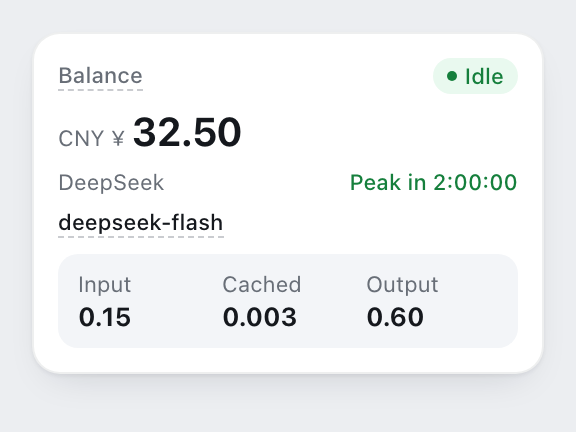
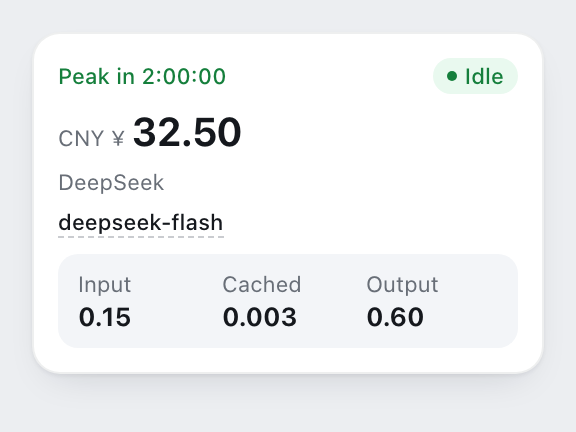
fix: lead with the countdown and hang the balance bubble on the amount
The card printed a 「余额」 label the amount already said, parked the countdown
next to the model where it read as a duration, and answered a hover anywhere on
the amount's row — 100 px right of the number included.

- The label is gone; the word survives as the amount row's `aria-label`, so a
  screen reader still hears what the number is.
- The countdown opens the card, top-left, opposite the chips, in the current
  period's colour: it is the one value that changes every second.
- `.dbc-amount-row` lays out and `.dbc-amount` answers, so the hover target is
  the money's own inline box. Measured on a 232 px card: 64.9 px (`¥32.50`)
  instead of the full 206 px row.
- The model bubble belongs to an official provider only: another provider bills
  its own account, so the card's numbers there are a reference, not its rates.

Screenshots regenerated from the shipped stylesheet.

Changed region(s): [[0.5938, 0.3912, 0.9062, 0.4514], [0.0938, 0.1505, 0.4062, 0.2106]]

diff --git a/client.js b/client.js
@@ -612,23 +612,23 @@ window.__ModuleLoader__.load({
       '.dbc-holiday-text{flex:0 1 auto;min-width:0;white-space:nowrap;overflow:hidden;text-overflow:ellipsis}',
       '.dbc-holiday-meta{flex:0 0 auto;margin-left:auto;font-weight:400;color:var(--dbc-ink-3)}',
       // label line: title on the left, state chips on the right
-      '.dbc-head{display:flex;align-items:center;justify-content:space-between;gap:8px;min-width:0}',
-      '.dbc-title{flex:0 1 auto;min-width:0;overflow:hidden;text-overflow:ellipsis;white-space:nowrap;font:500 11px/14px var(--dbc-font);color:var(--dbc-ink-3)}',
-      '.dbc-chips{display:flex;align-items:center;gap:4px;flex:0 0 auto}',
+      '.dbc-head{display:flex;align-items:center;justify-content:space-between;flex-wrap:wrap;gap:2px 8px;min-width:0}',
+      '.dbc-chips{display:flex;align-items:center;gap:4px;flex:0 0 auto;margin-left:auto}',
       '.dbc-chip{display:inline-flex;flex:0 0 auto;align-items:center;gap:4px;height:18px;padding:0 7px;border-radius:999px;font:500 11px/14px var(--dbc-font);white-space:nowrap;cursor:help}',
       '.dbc-chip-idle{background:var(--dbc-green-bg);color:var(--dbc-green)}',
       '.dbc-chip-peak{background:var(--dbc-amber-bg);color:var(--dbc-amber)}',
       '.dbc-chip-makeup{height:17px;padding:0 6px;border-radius:var(--dbc-r-tag);background:var(--dbc-surface-3);color:var(--dbc-ink-3)}',
       '.dbc-dot{width:5px;height:5px;border-radius:50%;background:currentColor}',
       // the amount owns a full-width line; long values shrink instead of clipping
-      '.dbc-amount{display:flex;align-items:baseline;gap:3px;min-width:0;font-size:20px;line-height:25px;font-weight:660;letter-spacing:-.02em;color:var(--dbc-ink-1);white-space:nowrap}',
+      '.dbc-amount-row{display:flex;align-items:baseline;gap:3px;min-width:0}',
+      '.dbc-amount{display:inline-flex;align-items:baseline;gap:3px;min-width:0;max-width:100%;font-size:20px;line-height:25px;font-weight:660;letter-spacing:-.02em;color:var(--dbc-ink-1);white-space:nowrap}',
       '.dbc-amount-small{font-size:17px;line-height:22px;letter-spacing:-.01em}',
       '.dbc-code{flex:0 0 auto;font:400 11px/14px var(--dbc-font);letter-spacing:0;color:var(--dbc-ink-3)}',
       '.dbc-note{font:400 13px/18px var(--dbc-font);letter-spacing:0;color:var(--dbc-ink-3)}',
       // provider line: provider on the left, countdown on the right, both on one line
       '.dbc-mrow{display:flex;align-items:baseline;flex-wrap:wrap;gap:0 6px;min-width:0}',
       '.dbc-provider{flex:0 0 auto;max-width:100%;overflow:hidden;text-overflow:ellipsis;white-space:nowrap;font:400 11px/14px var(--dbc-font);color:var(--dbc-ink-3)}',
-      '.dbc-clock{flex:0 0 auto;margin-left:auto;font:500 11px/14px var(--dbc-font);white-space:nowrap}',
+      '.dbc-clock{flex:0 0 auto;font:500 11px/14px var(--dbc-font);white-space:nowrap}',
       '.dbc-clock-idle{color:var(--dbc-green)}',
       '.dbc-clock-peak{color:var(--dbc-amber)}',
       '.dbc-model{align-self:flex-start;max-width:100%;min-width:0;overflow:hidden;text-overflow:ellipsis;white-space:nowrap;font:500 11px/14px var(--dbc-font);color:var(--dbc-ink-1)}',
@@ -638,7 +638,8 @@ window.__ModuleLoader__.load({
       '.dbc-price-value{white-space:nowrap;font:650 13px/16px var(--dbc-font);color:var(--dbc-ink-1)}',
       '.dbc-price-empty{grid-column:1 / -1;font:400 11px/14px var(--dbc-font);color:var(--dbc-ink-3)}',
       '.dbc-tip-trigger{cursor:help;border-bottom:1px dashed color-mix(in srgb,var(--dbc-ink-3) 35%,transparent)}',
-      '.dbc-tip-trigger:focus-visible{outline:2px solid color-mix(in srgb,var(--dbc-blue) 55%,transparent);outline-offset:2px}',
+      '.dbc-tip-plain{cursor:help}',
+      '.dbc-tip-plain:focus-visible,.dbc-tip-trigger:focus-visible{outline:2px solid color-mix(in srgb,var(--dbc-blue) 55%,transparent);outline-offset:2px}',
       // The bubble is a fixed dark surface in both themes, so its accents are fixed
       // too: the theme-aware --dbc-* colours would land dark-on-dark in light mode.
       '.dbc-tip{position:fixed;z-index:2147483000;display:flex;flex-direction:column;max-width:248px;box-sizing:border-box;padding:8px 10px;border:1px solid var(--dbc-line);border-radius:10px;background:var(--dbc-surface);color:var(--dbc-ink-1);box-shadow:0 6px 24px -8px rgba(15,17,21,.28),0 1px 3px rgba(15,17,21,.08);font:400 11px/14px var(--dbc-font);font-variant-numeric:tabular-nums;text-align:left;white-space:normal;pointer-events:none}',
@@ -999,6 +1000,8 @@ window.__ModuleLoader__.load({
       let balanceMain = null;
       let balanceNote = null;
       let balanceHint = null;
+      // The card no longer prints a balance label, but the number still needs a name
+      // for screen readers, so the same word rides on the amount row as its aria-label.
       let titleKey = 'card.title';
 
       const apiBalance = remote.deepseek;
@@ -1371,19 +1374,46 @@ window.__ModuleLoader__.load({
               ),
             );
 
-      // One visual row per fact: label line, amount line, provider line, model
-      // line, price block. The amount never shares a line with the countdown, so
-      // a six-digit balance and a two-week countdown can both be complete.
+      // One visual row per fact: countdown + chips, amount, provider, model, price
+      // block. The amount never shares a line with the countdown, so a six-digit
+      // balance and a two-week countdown can both be complete.
       const amountText = balanceMain === null ? null : balanceMain.text;
-      const amountRow =
-        amountText === null
-          ? h('div', { className: 'dbc-amount' }, h('span', { className: 'dbc-note' }, balanceNote))
-          : h(
-              'div',
-              { className: 'dbc-amount' + (amountText.length > AMOUNT_SMALL_AT ? ' dbc-amount-small' : '') },
-              balanceMain.code === null ? null : h('span', { className: 'dbc-code' }, balanceMain.code),
-              amountText,
-            );
+      // The amount carries the balance's hover text. It is the thing being explained,
+      // so it is the thing you point at; no dashed underline, because the number is
+      // already the loudest element on the card and a second affordance reads as a link.
+      // The row lays out; the amount itself is the trigger. Wrapping the whole row
+      // would make the empty half of the card answer for the number, so the handlers
+      // sit on the inline box that is exactly as wide as the money.
+      const amountRow = h(
+        'div',
+        { className: 'dbc-amount-row' },
+        h(
+          'span',
+          Object.assign(
+            {
+              // A notice has nothing to explain, so it takes no help cursor either. A
+              // real balance does — including the sub-cent「不足 0.01」row, which is an
+              // amount with a breakdown, not a notice.
+              className:
+                'dbc-amount' +
+                (balanceHint === null ? '' : ' dbc-tip-plain') +
+                (amountText !== null && amountText.length > AMOUNT_SMALL_AT ? ' dbc-amount-small' : ''),
+              // The visible label is gone, so the number carries its name for assistive
+              // tech. `role="group"` is what makes the name legal here: a bare `span` is
+              // a generic element and ARIA forbids naming it from the author.
+              role: balanceHint === null ? undefined : 'group',
+              'aria-label': balanceHint === null ? undefined : tr(titleKey),
+            },
+            tipTrigger(balanceHint),
+          ),
+          amountText === null
+            ? h('span', { className: 'dbc-note' }, balanceNote)
+            : [
+                balanceMain.code === null ? null : h('span', { key: 'code', className: 'dbc-code' }, balanceMain.code),
+                amountText,
+              ],
+        ),
+      );
 
       return h(
         Fragment,
@@ -1404,17 +1434,13 @@ window.__ModuleLoader__.load({
                   h('span', { className: 'dbc-holiday-text', title: holidayBanner }, holidayBanner),
                   holidayMeta === null ? null : h('span', { className: 'dbc-holiday-meta' }, holidayMeta),
                 ),
-            // The trigger is the label, not the row: hovering a number should never
-            // open an explanation, and a row-wide anchor makes the bubble sit flat
-            // against the card edge instead of hanging off the word it explains.
+            // The countdown opens the card: it is the one number that changes every
+            // second, so it belongs where the eye lands first, and the chips answer
+            // the same question from the right.
             h(
               'div',
               { className: 'dbc-head' },
-              h(
-                'span',
-                Object.assign({ className: 'dbc-title dbc-tip-trigger' }, tipTrigger(balanceHint)),
-                tr(titleKey),
-              ),
+              countdown === null ? null : h('span', { className: 'dbc-clock dbc-clock-' + tier }, countdown),
               h(
                 'span',
                 { className: 'dbc-chips' },
@@ -1434,18 +1460,16 @@ window.__ModuleLoader__.load({
               ),
             ),
             amountRow,
-            // Provider and countdown share a line because both are short; the
-            // countdown keeps its "to peak / to idle" wording and takes the
-            // current period's colour, so it cannot be mistaken for a duration.
-            h(
-              'div',
-              { className: 'dbc-mrow' },
-              h('span', { className: 'dbc-provider' }, providerLabel),
-              countdown === null ? null : h('span', { className: 'dbc-clock dbc-clock-' + tier }, countdown),
-            ),
+            h('div', { className: 'dbc-mrow' }, h('span', { className: 'dbc-provider' }, providerLabel)),
+            // Only an official provider is billed from the table, so only then is
+            // there a price story to tell; another provider bills its own account and
+            // the card shows its list prices as a reference, not as that provider's rates.
             h(
               'span',
-              Object.assign({ className: 'dbc-model dbc-tip-trigger' }, tipTrigger(modelTip)),
+              Object.assign(
+                { className: 'dbc-model' + (official ? ' dbc-tip-trigger' : '') },
+                tipTrigger(official ? modelTip : null),
+              ),
               modelLabel,
             ),
             pricedNode,

diff --git a/AGENTS.md b/AGENTS.md
@@ -52,14 +52,21 @@ so a session rooted at the parent folder loads neither.
 
 Hover text is the card's only place for the long explanation, so it follows the rows.
 
-- One trigger per visual row, and the trigger is that row's **label**, not the row: the balance
-  label explains the balance, the model name explains the unit and the snapshot, and each chip
-  explains itself. A row-wide anchor makes the bubble hang off the card edge instead of the word it
-  belongs to, and fires while the pointer is over a number, which reads as accidental. Give text
-  triggers `dbc-tip-trigger` (cursor + dotted underline, plus a focus ring) so the affordance is
-  visible; a chip is its own affordance and takes the handlers without the class. Never attach the
-  same label to two nested nodes, and never put a tooltip on the price block or the holiday
-  banner — their text already says what they are.
+- One trigger per visual row, and the trigger is the thing the row is about. The amount explains
+  the balance — a `dbc-tip-plain` trigger with cursor help and a focus ring but **no** dashed
+  underline, because the number is already the loudest element and a second affordance reads as a
+  link — and that trigger is the inline box around the money, never the row: `.dbc-amount-row`
+  lays out and `.dbc-amount` answers, so a pointer 100 px right of `¥32.50` is not over the
+  balance. The model name explains the unit and the snapshot, and each chip explains itself. A row-wide anchor
+  makes the bubble hang off the card edge instead of the word it belongs to, and fires while the
+  pointer is over a number, which reads as accidental. Text triggers that need advertising take
+  `dbc-tip-trigger` (cursor + dashed underline); a chip is its own affordance and takes the
+  handlers without a class. Never attach the same label to two nested nodes, and never put a
+  tooltip on the price block or the holiday banner — their text already says what they are.
+- Hover text states a fact about *this* card, so it must not outlive its truth: the model bubble
+  belongs to an official provider only. Another provider bills its own account, and the card's
+  numbers are then a list-price reference, not that provider's rates — so `.dbc-model` gets neither
+  the class nor the handlers when `billsAtListPrice(provider)` is false.
 - The card draws its own bubble. The host primitive was borrowed until 1.3: its surface is a fixed
   dark plate in both themes, which pins one element of a card that owns its light/dark palette to
   somebody else's chrome. Do not reintroduce `@deepseek-ai/dsh-client-ui-primitives`, and do not
@@ -151,11 +158,12 @@ these lists; to make something bigger, move it one step instead of inventing a h
   inside the holiday strip, `4px` between chips. Space around a group exceeds space within it.
 - **Radius**: `14px` card, `10px` price panel, `8px` holiday strip, `6px` make-up tag, `999px`
   chips.
-- **Layout is one row per fact**: label + chips, amount, provider + countdown, model, prices.
-  The amount never shares a line with the countdown — that pair is what clipped six-digit
-  balances at 196 px. Provider names are short, so the countdown rides on the provider line;
-  `.dbc-mrow` is `flex-wrap` anyway, so an unusually long provider pushes the countdown to its
-  own right-aligned line instead of clipping it.
+- **Layout is one row per fact**: countdown + chips, amount, provider, model, prices. The card
+  prints no balance label — the amount is the loudest thing on it and names itself; the word
+  survives as the amount row's `aria-label` (`card.title` / `card.title.api`) so a screen reader
+  still hears what the number is. The amount never shares a line with the countdown — that pair is
+  what clipped six-digit balances at 196 px — and the countdown sits top-left, opposite the chips,
+  because it is the one value that moves every second.
 - **Contrast floor**: 4.5:1 for every text colour on the surface it lands on, in both themes.
   Measured: `--dbc-ink-1` 17.8 / 15.0, `-ink-2` 7.3 / 10.4, `-ink-3` 5.1 / 7.0 (and 4.7 / 6.2 on
   `-surface-2`), chip text 4.7 green / 4.6 amber on its own tint (7.5 / 7.7 dark), blue 6.7 /

diff --git a/README.md b/README.md
@@ -31,7 +31,7 @@ A card in the DSH sidebar footer: the balance, the provider and model behind it,
 - **Balance** — the DSH account balance (recharge + bonus) or the DeepSeek open-platform balance behind your API key, whichever the selected provider bills; it follows the provider in the composer.
 - **Row per fact** — the provider names the row above the model, so you can see which channel the price belongs to.
 - **Unit prices** — input, cached and output for the selected model, in the tier active now; no price when another provider serves the model.
-- **Billing period** — green `Idle` / yellow `Peak`; the countdown to the switch keeps its `Peak in` / `Idle in` wording and takes the period's colour.
+- **Billing period** — green `Idle` / yellow `Peak`; the countdown to the switch sits top-left, keeps its `Peak in` / `Idle in` wording and takes the period's colour.
 - **Holidays** (Chinese UI) — a blue strip with the holiday's name, and a gray `调休` chip on a make-up workday.
 - **Currency by language** — CNY prices in Chinese, USD everywhere else.
 - **Theme and locale** — light and dark themes from the card's own token layer, zh/en dictionaries, built-in data when an upstream cannot be fetched.
@@ -87,9 +87,11 @@ A Chinese UI quotes the CNY page, every other language the USD page. Nothing is 
 
 ### Hover text
 
-A dotted underline marks the two row labels — `Balance` and the model name — and nothing else: one
-trigger per row, never the number itself. The two chips (period, `Make-up`) are triggers too and keep
-the help cursor, but no underline, because three dashed rules in a 232 px card read as noise.
+Each row's trigger is the thing the row is about: the balance amount itself (help cursor, **no**
+underline — the number is already the loudest element on the card, and a dashed rule under it reads
+as a link), the model name (dashed, so the affordance is visible), and the two chips (period,
+`Make-up`), each with the help cursor. The model bubble belongs to the official price list only:
+with another provider the numbers are a reference, not that provider's rates.
 
 Each bubble is a definition list drawn by the card itself — no host primitive, so it follows the
 theme instead of inheriting a fixed dark plate: one `label → value` row per fact with a green dot
